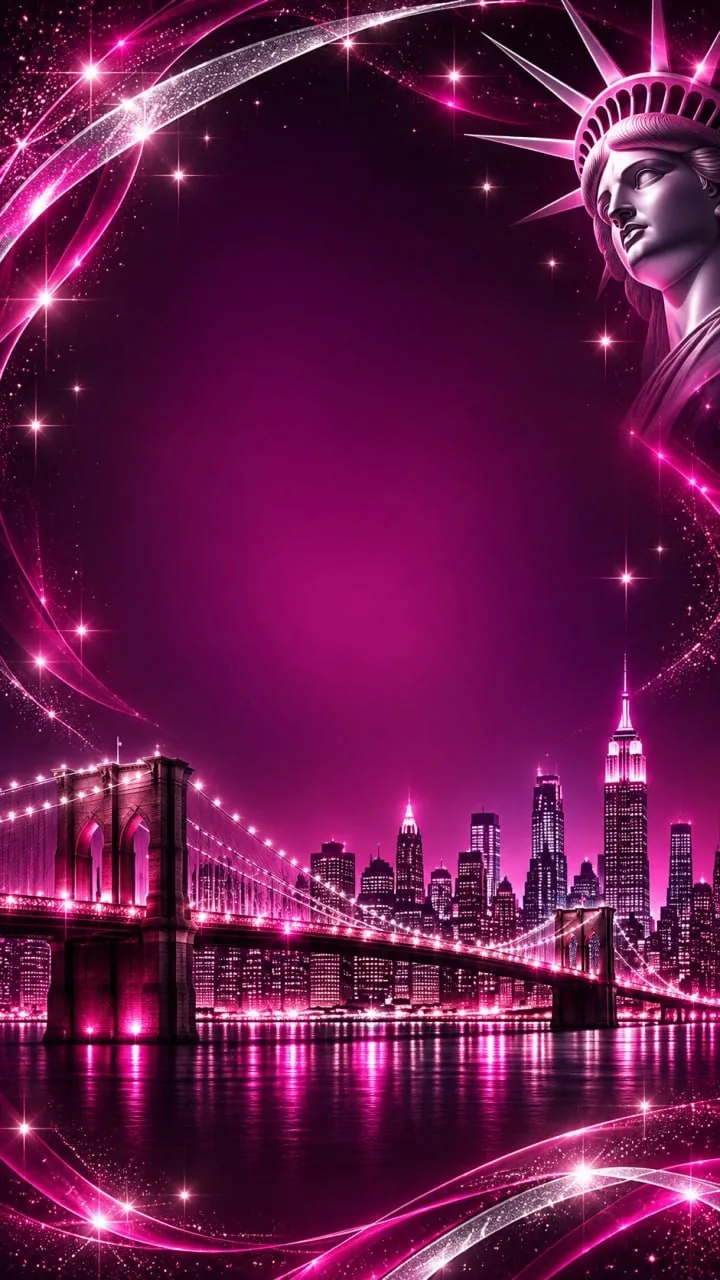
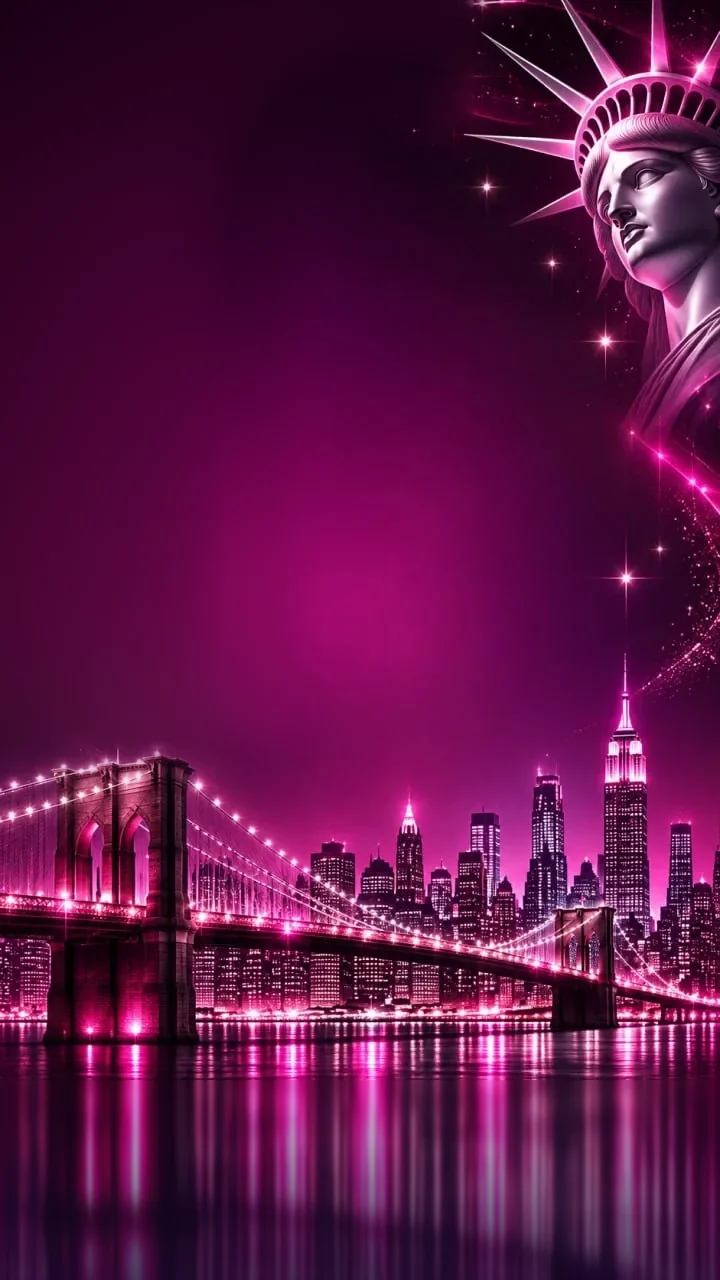
Quita decoraciones de la esquina, el mar y el corazón

diff --git a/index.html b/index.html
@@ -82,7 +82,6 @@ a{color:inherit}
   -webkit-background-clip:text;background-clip:text;color:transparent;
   filter:drop-shadow(0 0 3px rgba(255,255,255,.7)) drop-shadow(0 0 12px rgba(138,77,255,.9)) drop-shadow(0 0 30px rgba(255,63,164,.5));
 }
-.adorno{width:min(64%,260px);margin-top:-4px;filter:drop-shadow(0 0 6px rgba(201,168,255,.7))}
 .nombre{
   font-family:var(--script);font-weight:400;
   font-size:clamp(50px,15vw,80px);line-height:1.05;color:#ffd9f0;
@@ -285,7 +284,6 @@ input::placeholder{color:rgba(207,194,234,.55)}
     <p class="marquesina">Una noche en Nueva York</p>
     <img class="tiara" src="assets/tiara.webp" alt="">
     <p class="xv" aria-label="Quince">XV</p>
-    <img class="adorno" src="assets/adorno.webp" alt="">
     <h1 class="nombre">María Fernanda</h1>
     <div class="fecha-linea">
       <span>ENERO</span><b>30</b><span>2027</span>
